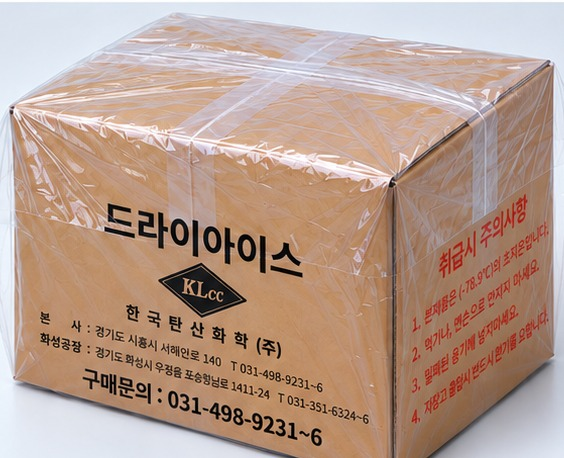
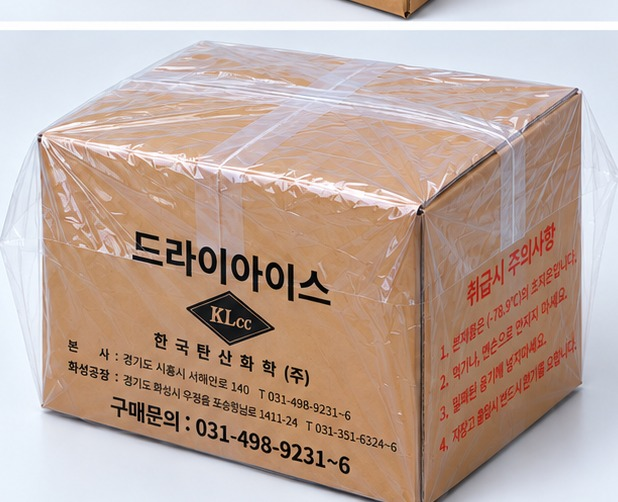
드라이아이스 블록 포장 프로세스 3·4번 사진 10% 축소(배경 확장 처리). proc3?v=n, proc4?v=d

diff --git a/products-ice.html b/products-ice.html
@@ -415,8 +415,8 @@
                 <ol class="proc4">
                   <li class="proc4__step"><div class="proc4__media"><img src="assets/images/site/icespec/proc1.jpg?v=20260911b" alt="비닐 라이너 준비" loading="lazy"></div><b><span class="proc4__n">1</span>비닐 라이너 준비</b><p>박스 안에 비닐(라이너)을 깔아줍니다.</p></li>
                   <li class="proc4__step"><div class="proc4__media"><img src="assets/images/site/icespec/proc2.jpg?v=20260911e" alt="블록 담기" loading="lazy"></div><b><span class="proc4__n">2</span>블록 담기</b><p>드라이아이스 블록을 담습니다.</p></li>
-                  <li class="proc4__step"><div class="proc4__media"><img src="assets/images/site/icespec/proc3.jpg?v=20260911m" alt="박스 포장" loading="lazy"></div><b><span class="proc4__n">3</span>박스 포장</b><p>내용물이 담긴 박스를 밀봉하여 포장합니다.</p></li>
-                  <li class="proc4__step"><div class="proc4__media"><img src="assets/images/site/icespec/proc4.jpg?v=20260911c" alt="외부 비닐 포장" loading="lazy"></div><b><span class="proc4__n">4</span>외부 비닐 포장</b><p>외부 비닐로 한 번 더 포장하여 출고합니다.</p></li>
+                  <li class="proc4__step"><div class="proc4__media"><img src="assets/images/site/icespec/proc3.jpg?v=20260911n" alt="박스 포장" loading="lazy"></div><b><span class="proc4__n">3</span>박스 포장</b><p>내용물이 담긴 박스를 밀봉하여 포장합니다.</p></li>
+                  <li class="proc4__step"><div class="proc4__media"><img src="assets/images/site/icespec/proc4.jpg?v=20260911d" alt="외부 비닐 포장" loading="lazy"></div><b><span class="proc4__n">4</span>외부 비닐 포장</b><p>외부 비닐로 한 번 더 포장하여 출고합니다.</p></li>
                 </ol>
               </div>
             </div>
